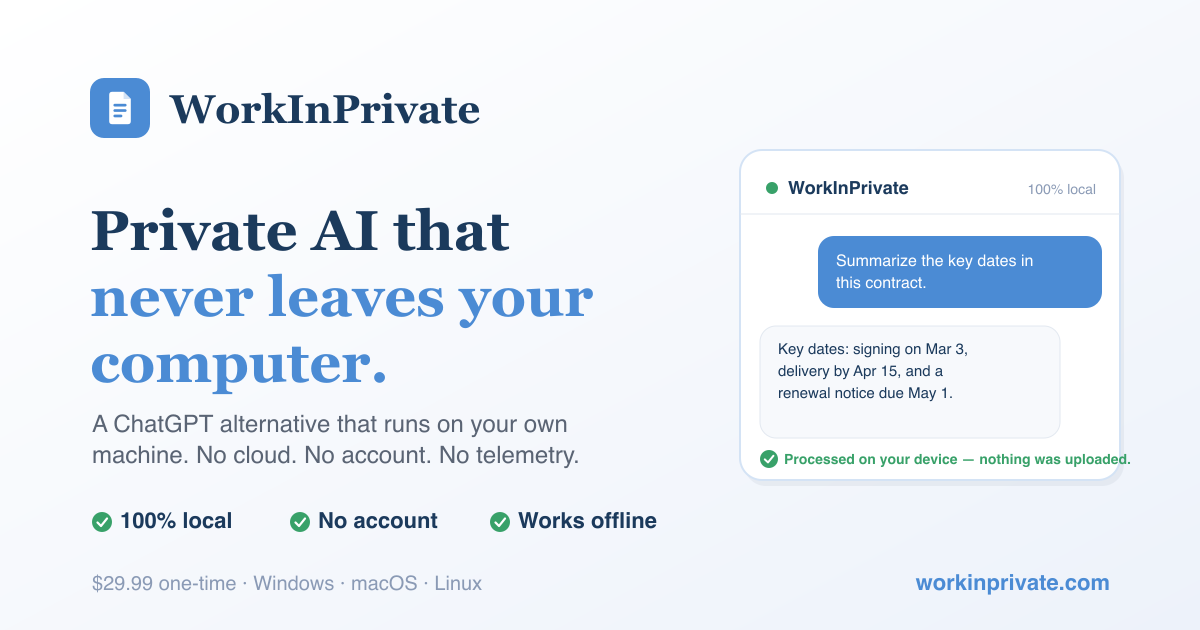
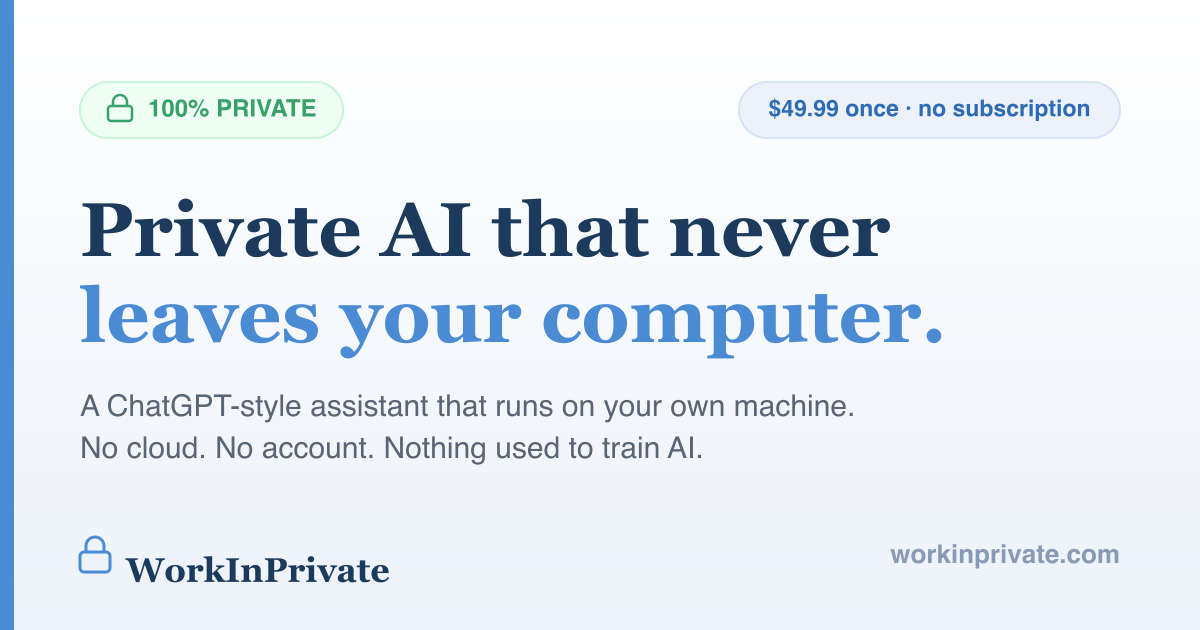
Raise price from $29.99 to $49.99 (#75)
Update every customer-facing price reference across the site:

- Pricing page: price display, CTA, SEO title/description, refund blurb
- Homepage: hero subline, comparison table, value props, meta description
- Segment pages: CTA subline + 7 segment meta descriptions
- Comparison pages: column subs, price rows, FAQs, pay-once argument
- FAQ: visible copy and FAQPage structured data
- Download page and blog CTA footers
- Structured data: SoftwareApplication offer price -> 49.99
- Analytics: begin_checkout and purchase event value/price -> 49.99
- Regenerate public/og-image.png (price chip auto-resizes to fit)
- Update Playwright assertions and CLAUDE.md

The Stripe Payment Link URL is unchanged — the existing link was
repriced in place, so no checkout wiring needed to change.

diff --git a/src/data/comparisons.ts b/src/data/comparisons.ts
@@ -59,7 +59,7 @@ export interface ComparisonPage {
 }
 
 const TRIAL_SUB =
-  "Free 7-day trial — no account, no credit card. Then $29.99 one-time. Windows, macOS & Linux.";
+  "Free 7-day trial — no account, no credit card. Then $49.99 one-time. Windows, macOS & Linux.";
 
 export const comparisonOrder = [
   "chatgpt-alternative-private",
@@ -73,7 +73,7 @@ export const comparisons: Record<string, ComparisonPage> = {
     slug: "chatgpt-alternative-private",
     seoTitle: "Private ChatGPT Alternative That Runs on Your Computer | WorkInPrivate",
     metaDescription:
-      "Looking for a private ChatGPT alternative? WorkInPrivate runs an AI assistant entirely on your own computer — no cloud, no account, no data used to train AI. $29.99 one-time, free 7-day trial.",
+      "Looking for a private ChatGPT alternative? WorkInPrivate runs an AI assistant entirely on your own computer — no cloud, no account, no data used to train AI. $49.99 one-time, free 7-day trial.",
     eyebrow: "ChatGPT Alternative",
     h1: "A private ChatGPT alternative that runs on your own computer",
     subhead:
@@ -83,7 +83,7 @@ export const comparisons: Record<string, ComparisonPage> = {
       "WorkInPrivate is built for exactly those moments. It's a desktop app that runs an open-source AI model locally, so your conversations and files stay on your device. No account, no telemetry, and it keeps working with the Wi-Fi off.",
     ],
     columns: [
-      { name: "WorkInPrivate", sub: "$29.99 one-time", us: true },
+      { name: "WorkInPrivate", sub: "$49.99 one-time", us: true },
       { name: "ChatGPT Plus", sub: "$20/month" },
     ],
     rows: [
@@ -93,7 +93,7 @@ export const comparisons: Record<string, ComparisonPage> = {
       { label: "Your chats can train the AI", values: ["Never", "Possible"], tones: ["good", "bad"] },
       { label: "Works with no internet", values: ["Yes, after setup", "No"], tones: ["good", "bad"] },
       { label: "File analysis (PDF, DOCX, images)", values: ["Yes", "Yes"], tones: ["good", "good"] },
-      { label: "Cost after one year", values: ["$29.99", "$240"], tones: ["good", "neutral"] },
+      { label: "Cost after one year", values: ["$49.99", "$240"], tones: ["good", "neutral"] },
       { label: "Best-in-class frontier model", values: ["No — good local models", "Yes"], tones: ["neutral", "good"] },
     ],
     reasonsHeading: "Why people switch to WorkInPrivate",
@@ -104,7 +104,7 @@ export const comparisons: Record<string, ComparisonPage> = {
       },
       {
         title: "Pay once, not every month",
-        body: "$29.99 one time replaces a $240/year subscription. No usage caps, no metering, no surprise bill.",
+        body: "$49.99 one time replaces a $240/year subscription. No usage caps, no metering, no surprise bill.",
       },
       {
         title: "No account, no setup headaches",
@@ -133,7 +133,7 @@ export const comparisons: Record<string, ComparisonPage> = {
       },
       {
         q: "Is it really a one-time price?",
-        a: "Yes. $29.99 once, no subscription and no usage limits. You can try it free for 7 days first with no account or credit card.",
+        a: "Yes. $49.99 once, no subscription and no usage limits. You can try it free for 7 days first with no account or credit card.",
       },
       {
         q: "Which platforms are supported?",
@@ -158,7 +158,7 @@ export const comparisons: Record<string, ComparisonPage> = {
       "But most people aren't developers. WorkInPrivate takes the same idea — AI running locally on your device — and wraps it in a guided desktop app: no terminal, no config files, no separate UI to install. It checks your hardware, picks a model, and opens like any chat app you already know.",
     ],
     columns: [
-      { name: "WorkInPrivate", sub: "$29.99 one-time", us: true },
+      { name: "WorkInPrivate", sub: "$49.99 one-time", us: true },
       { name: "Ollama", sub: "Free" },
     ],
     rows: [
@@ -168,7 +168,7 @@ export const comparisons: Record<string, ComparisonPage> = {
       { label: "Picks a model that fits your PC", values: ["Yes, automatically", "You choose & manage"], tones: ["good", "neutral"] },
       { label: "File analysis built in", values: ["Yes", "Not out of the box"], tones: ["good", "bad"] },
       { label: "Guided setup for non-technical users", values: ["Yes", "No — built for developers"], tones: ["good", "bad"] },
-      { label: "Price", values: ["$29.99 once", "Free"], tones: ["neutral", "neutral"] },
+      { label: "Price", values: ["$49.99 once", "Free"], tones: ["neutral", "neutral"] },
       { label: "Customer support", values: ["Email support included", "Community only"], tones: ["good", "neutral"] },
     ],
     reasonsHeading: "What you're paying for with WorkInPrivate",
@@ -194,12 +194,12 @@ export const comparisons: Record<string, ComparisonPage> = {
       heading: "When Ollama is the better choice",
       body: [
         "If you're a developer, love the terminal, and want to script your own pipelines or plug models into your code, Ollama is excellent and free. You don't need us — and we'd rather tell you that than sell you something you won't use.",
-        "WorkInPrivate earns its $29.99 with people who want the same privacy without the setup: they'd rather pay once than spend an afternoon wiring up a runtime, a model, and a chat UI. If that's you, the time saved is worth more than the price.",
+        "WorkInPrivate earns its $49.99 with people who want the same privacy without the setup: they'd rather pay once than spend an afternoon wiring up a runtime, a model, and a chat UI. If that's you, the time saved is worth more than the price.",
       ],
     },
     faqs: [
       {
-        q: "Isn't Ollama free? Why pay $29.99?",
+        q: "Isn't Ollama free? Why pay $49.99?",
         a: "You're paying for the experience, not the model. Ollama is a developer tool that needs a command line and a separate chat interface. WorkInPrivate bundles the engine, a friendly chat app, automatic model selection, file analysis, and email support into one install — so a non-technical person can be chatting privately in minutes.",
       },
       {
@@ -219,7 +219,7 @@ export const comparisons: Record<string, ComparisonPage> = {
     slug: "lm-studio-alternative",
     seoTitle: "An LM Studio Alternative Built for Non-Technical Users | WorkInPrivate",
     metaDescription:
-      "Looking for an LM Studio alternative that's simpler? WorkInPrivate runs open-source AI locally with a guided setup — no model catalogs or quantization settings to figure out. $29.99 one-time.",
+      "Looking for an LM Studio alternative that's simpler? WorkInPrivate runs open-source AI locally with a guided setup — no model catalogs or quantization settings to figure out. $49.99 one-time.",
     eyebrow: "LM Studio Alternative",
     h1: "A simpler LM Studio alternative — private AI without the tinkering",
     subhead:
@@ -229,7 +229,7 @@ export const comparisons: Record<string, ComparisonPage> = {
       "WorkInPrivate is for the person who doesn't want to become a local-AI hobbyist. Same core benefit — the AI runs privately on your own machine — but the technical decisions are made for you, so there's nothing to configure before you can start chatting with your documents.",
     ],
     columns: [
-      { name: "WorkInPrivate", sub: "$29.99 one-time", us: true },
+      { name: "WorkInPrivate", sub: "$49.99 one-time", us: true },
       { name: "LM Studio", sub: "Free" },
     ],
     rows: [
@@ -239,7 +239,7 @@ export const comparisons: Record<string, ComparisonPage> = {
       { label: "Automatic hardware check", values: ["Yes", "Manual"], tones: ["good", "neutral"] },
       { label: "File analysis built in", values: ["Yes", "Varies by setup"], tones: ["good", "neutral"] },
       { label: "Made for confidential professional work", values: ["Yes — with segment guides", "General-purpose"], tones: ["good", "neutral"] },
-      { label: "Price", values: ["$29.99 once", "Free"], tones: ["neutral", "neutral"] },
+      { label: "Price", values: ["$49.99 once", "Free"], tones: ["neutral", "neutral"] },
       { label: "Email support", values: ["Included", "Community only"], tones: ["good", "neutral"] },
     ],
     reasonsHeading: "Why choose WorkInPrivate over LM Studio",
@@ -265,7 +265,7 @@ export const comparisons: Record<string, ComparisonPage> = {
       heading: "When LM Studio is the better choice",
       body: [
         "If you like to tinker — swapping models, testing quantizations, tuning inference settings — LM Studio is free and gives you that control. Enthusiasts will feel more at home there, and we won't pretend otherwise.",
-        "WorkInPrivate is for people who see all those options as friction. If you'd rather have the decisions made for you and just get to work privately, that's exactly what the $29.99 buys.",
+        "WorkInPrivate is for people who see all those options as friction. If you'd rather have the decisions made for you and just get to work privately, that's exactly what the $49.99 buys.",
       ],
     },
     faqs: [
@@ -275,7 +275,7 @@ export const comparisons: Record<string, ComparisonPage> = {
       },
       {
         q: "Why pay when LM Studio is free?",
-        a: "The same reason people buy polished software over free tools: the $29.99 buys a guided, decision-free experience and support. If configuring models yourself sounds fun, LM Studio is a fine free choice.",
+        a: "The same reason people buy polished software over free tools: the $49.99 buys a guided, decision-free experience and support. If configuring models yourself sounds fun, LM Studio is a fine free choice.",
       },
       {
         q: "Can I use it for confidential client work?",

diff --git a/src/data/segments.ts b/src/data/segments.ts
@@ -42,7 +42,7 @@ export interface Segment {
 }
 
 // Shared reassurance line under every primary CTA.
-export const CTA_SUBLINE = "$29.99 one-time · 7-day free trial · Windows / macOS / Linux";
+export const CTA_SUBLINE = "$49.99 one-time · 7-day free trial · Windows / macOS / Linux";
 
 // Shared "private by design" proof points (identical on every page — privacy
 // is architectural, not per-profession).
@@ -81,7 +81,7 @@ export const segments: Record<string, Segment> = {
     cardBlurb: "Work through privileged documents without sending them to a third-party server.",
     seoTitle: "Private AI for Lawyers — Your Files Never Leave Your Device | WorkInPrivate",
     metaDescription:
-      "A local AI assistant for attorneys. Analyze case documents, draft, and research on your own machine — no cloud, no account, no telemetry. $29.99 one-time, 7-day free trial.",
+      "A local AI assistant for attorneys. Analyze case documents, draft, and research on your own machine — no cloud, no account, no telemetry. $49.99 one-time, 7-day free trial.",
     h1: "An AI assistant that never sends your client files to the cloud.",
     subhead:
       "WorkInPrivate runs entirely on your computer. Analyze discovery, draft, and summarize — without a single document leaving your device. No account. No telemetry. Offline after a one-time setup.",
@@ -140,7 +140,7 @@ export const segments: Record<string, Segment> = {
     cardBlurb: "Draft and summarize session notes without them ever leaving your laptop.",
     seoTitle: "Private AI for Therapists & Counselors — On-Device, Confidential | WorkInPrivate",
     metaDescription:
-      "A local AI assistant for mental health professionals. Draft notes, summarize, and organize your work on your own device — no cloud, no account, no telemetry. $29.99 one-time, 7-day trial.",
+      "A local AI assistant for mental health professionals. Draft notes, summarize, and organize your work on your own device — no cloud, no account, no telemetry. $49.99 one-time, 7-day trial.",
     h1: "AI for your notes and paperwork — that keeps client confidence on your device.",
     subhead:
       "WorkInPrivate runs locally on your computer, so you can lighten the admin load without sending a word about a client to the cloud. No account. No telemetry. Offline after setup.",
@@ -199,7 +199,7 @@ export const segments: Record<string, Segment> = {
     cardBlurb: "Analyze client financials while the numbers stay entirely on your computer.",
     seoTitle: "Private AI for Accountants & Bookkeepers — Local & Confidential | WorkInPrivate",
     metaDescription:
-      "A local AI assistant for accountants and bookkeepers. Review statements, reconcile, and draft on your own machine — no cloud, no account, no telemetry. $29.99 one-time, 7-day trial.",
+      "A local AI assistant for accountants and bookkeepers. Review statements, reconcile, and draft on your own machine — no cloud, no account, no telemetry. $49.99 one-time, 7-day trial.",
     h1: "Analyze client financials — with the numbers never leaving your machine.",
     subhead:
       "WorkInPrivate runs entirely on your computer. Summarize statements, draft client emails, and organize working papers without uploading a single figure. No account. No telemetry. Offline after setup.",
@@ -258,7 +258,7 @@ export const segments: Record<string, Segment> = {
     cardBlurb: "Summarize and draft while patient information stays offline, private by design.",
     seoTitle: "Private AI for Healthcare Professionals — On-Device & Offline | WorkInPrivate",
     metaDescription:
-      "A local AI assistant for clinicians and private practices. Summarize and draft on your own device — no cloud, no account, no telemetry. $29.99 one-time, 7-day trial.",
+      "A local AI assistant for clinicians and private practices. Summarize and draft on your own device — no cloud, no account, no telemetry. $49.99 one-time, 7-day trial.",
     h1: "A private AI assistant that keeps patient information on your device.",
     subhead:
       "WorkInPrivate runs locally on your computer, so you can summarize, draft, and organize without sending patient information to the cloud. No account. No telemetry. Offline after setup.",
@@ -317,7 +317,7 @@ export const segments: Record<string, Segment> = {
     cardBlurb: "Search document dumps and organize source material offline, private by design.",
     seoTitle: "Private AI for Journalists — Protect Sources, Work Offline | WorkInPrivate",
     metaDescription:
-      "A local AI assistant for reporters. Search documents, summarize, and organize source material on your own machine — no cloud, no account, no telemetry. $29.99 one-time, 7-day trial.",
+      "A local AI assistant for reporters. Search documents, summarize, and organize source material on your own machine — no cloud, no account, no telemetry. $49.99 one-time, 7-day trial.",
     h1: "Work through source material — without uploading it to anyone.",
     subhead:
       "WorkInPrivate runs entirely on your computer. Summarize leaks, search document dumps, and organize research while your sources stay on your device. No account. No telemetry. Offline after setup.",
@@ -376,7 +376,7 @@ export const segments: Record<string, Segment> = {
     cardBlurb: "Chat with literature, transcripts, and unpublished data — all on your device.",
     seoTitle: "Private AI for Researchers — Chat With Your Data, Locally | WorkInPrivate",
     metaDescription:
-      "A local AI assistant for academic and independent researchers. Query papers, transcripts, and unpublished data on your own machine — no cloud, no account, no telemetry. $29.99 one-time.",
+      "A local AI assistant for academic and independent researchers. Query papers, transcripts, and unpublished data on your own machine — no cloud, no account, no telemetry. $49.99 one-time.",
     h1: "Chat with your literature and data — without uploading unpublished work.",
     subhead:
       "WorkInPrivate runs entirely on your computer. Query papers, interview transcripts, and pre-publication data locally, so embargoed work never leaves your device. No account. No telemetry. Offline after setup.",
@@ -435,7 +435,7 @@ export const segments: Record<string, Segment> = {
     cardBlurb: "Draft and edit NDA'd manuscripts and unpublished work — nothing uploaded.",
     seoTitle: "Private AI for Writers — Draft NDA'd Work Offline | WorkInPrivate",
     metaDescription:
-      "A local AI assistant for authors, ghostwriters, and editors. Draft and edit unpublished manuscripts on your own machine — no cloud, no account, no telemetry. $29.99 one-time.",
+      "A local AI assistant for authors, ghostwriters, and editors. Draft and edit unpublished manuscripts on your own machine — no cloud, no account, no telemetry. $49.99 one-time.",
     h1: "Draft and edit unpublished work — without handing it to a cloud model.",
     subhead:
       "WorkInPrivate runs entirely on your computer. Brainstorm, draft, and edit manuscripts and NDA'd material while your words stay on your device. No account. No telemetry. Offline after setup.",

diff --git a/tests/segments.spec.ts b/tests/segments.spec.ts
@@ -38,9 +38,9 @@ test.describe('Segment landing pages', () => {
       expect(await pricing.getAttribute('href')).toBe('/pricing');
     });
 
-    test(`${seg.slug} shows one-time $29.99 and no placeholder testimonial`, async ({ page }) => {
+    test(`${seg.slug} shows one-time $49.99 and no placeholder testimonial`, async ({ page }) => {
       await page.goto(`/${seg.slug}`);
-      await expect(page.locator('text=$29.99 one-time').first()).toBeVisible();
+      await expect(page.locator('text=$49.99 one-time').first()).toBeVisible();
       // Testimonials are intentionally omitted until real, verified quotes exist.
       await expect(page.locator('blockquote')).toHaveCount(0);
     });

diff --git a/tests/homepage.spec.ts b/tests/homepage.spec.ts
@@ -96,9 +96,9 @@ test.describe('Homepage — Friendly Neighbor light theme', () => {
     }
   });
 
-  test('shows the pricing comparison with one-time $29.99', async ({ page }) => {
+  test('shows the pricing comparison with one-time $49.99', async ({ page }) => {
     await page.getByRole('heading', { name: /Stop Paying Monthly/i }).scrollIntoViewIfNeeded();
-    await expect(page.locator('text=$29.99 one-time').first()).toBeVisible();
+    await expect(page.locator('text=$49.99 one-time').first()).toBeVisible();
     await expect(page.locator('text=$20/month').first()).toBeVisible();
   });
 

diff --git a/CLAUDE.md b/CLAUDE.md
@@ -4,7 +4,7 @@ This file provides guidance to Claude Code (claude.ai/code) when working with co
 
 ## Project Overview
 
-Marketing website for **WorkInPrivate** — a private AI chatbot that runs open-source AI models locally (models are downloaded from Hugging Face). Hosted on GitHub Pages at `www.workinprivate.com`. Sells the product ($29.99 one-time) built in the sibling `workinprivate/` repo.
+Marketing website for **WorkInPrivate** — a private AI chatbot that runs open-source AI models locally (models are downloaded from Hugging Face). Hosted on GitHub Pages at `www.workinprivate.com`. Sells the product ($49.99 one-time) built in the sibling `workinprivate/` repo.
 
 **Product positioning:** "Your private AI chatbot — runs 100% on your computer. No cloud. No accounts. Just you."
 
@@ -51,8 +51,8 @@ Fonts: Source Sans 3 (body), Merriweather (headings), JetBrains Mono (code).
 - All pages use `BaseLayout` and pass `title` and `description` props for SEO
 - Styling is inline Tailwind utility classes — no separate CSS files
 - The site is fully static (`output: 'static'`)
-- Pricing: single product at $29.99 one-time (no modules, no subscriptions)
-- Primary CTA: "Buy Now — $29.99" linking to `/pricing`
+- Pricing: single product at $49.99 one-time (no modules, no subscriptions)
+- Primary CTA: "Buy Now — $49.99" linking to `/pricing`
 
 ## Testing
 

diff --git a/src/content/blog/run-ai-privately-no-coding.md b/src/content/blog/run-ai-privately-no-coding.md
@@ -48,7 +48,7 @@ You download it, it sets itself up, and you start typing. If you can use a texti
 2. **Let it check your computer.** It looks at your hardware and sets up an AI that will run well — the guided setup handles the technical parts.
 3. **Start chatting privately.** Ask questions, write, or drop in a document. Everything stays on your machine, and it keeps working with the Wi-Fi off.
 
-There's a free 7-day trial with no account or credit card, so you can confirm it works on your computer before paying anything. After that it's a one-time $29.99 — no subscription.
+There's a free 7-day trial with no account or credit card, so you can confirm it works on your computer before paying anything. After that it's a one-time $49.99 — no subscription.
 
 ## Which path is right for you?
 
